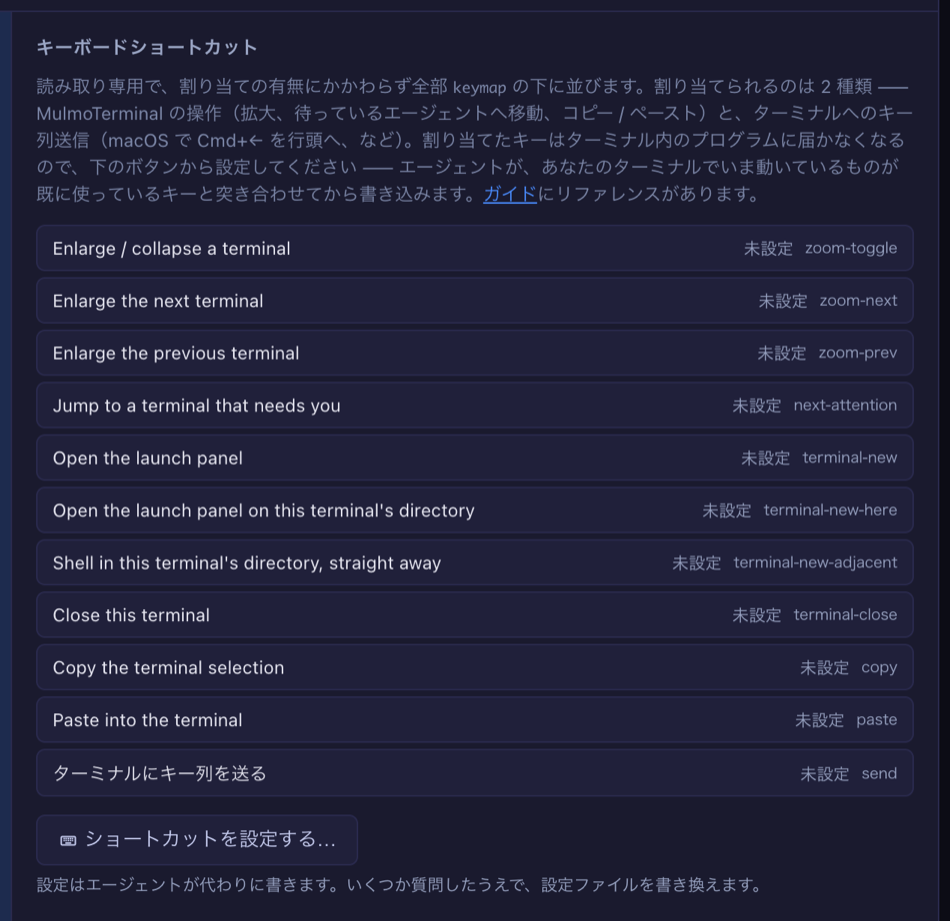
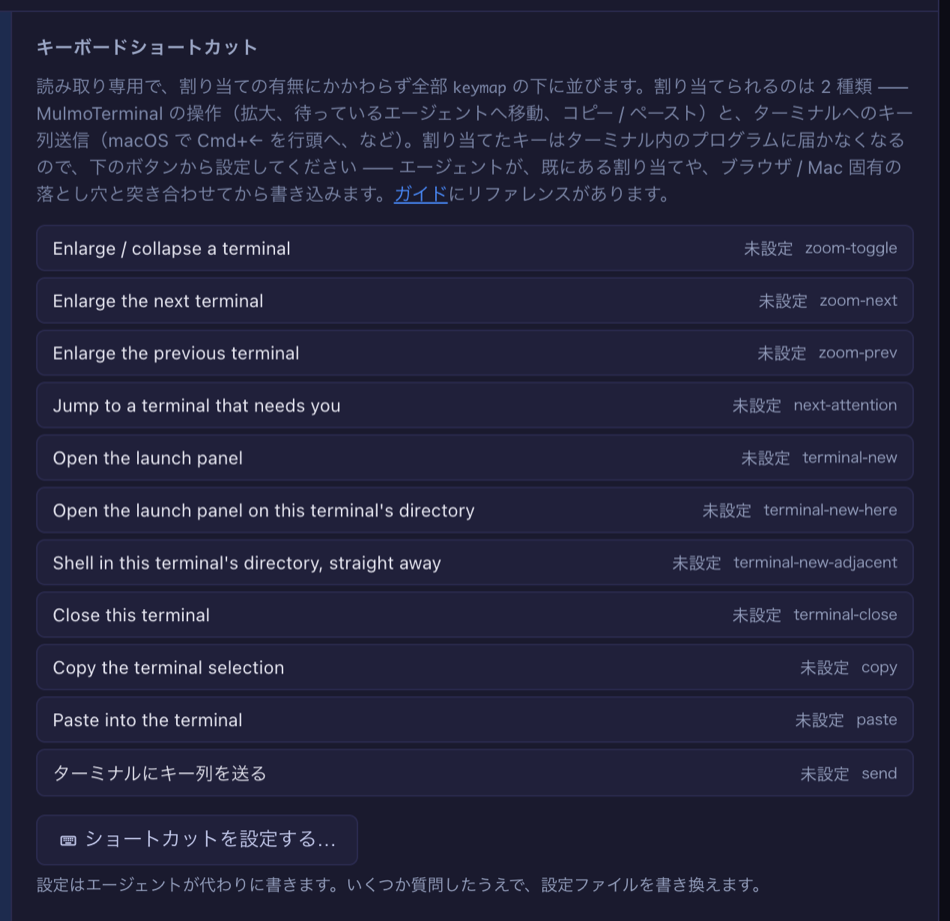
docs: stop claiming the agent can see what your terminal is running
Local codex (P3), and it is an overstatement I wrote. The intro said the
agent "checks a binding against what is already running in your
terminal". Nothing here can do that: actionForKey and sendBytesFor know
only the configured keymap, and no code inspects what vim or claude
binds. What the skill actually checks is the existing keymap and the
browser/macOS traps — so that is what the copy now says, in en, ja and
the README.

The fourth site was the screenshots, which bake the sentence in. Both
recaptured. The hazard recorded one round earlier — change the copy and
the images need retaking, and no test can tell — happened in the very
next round.

Also: the skill body still described the section as "every action and
its current binding" while its own frontmatter had been corrected to
include the send row.

Changed region(s): [[0.0305, 0.152, 0.9463, 0.2432]]

diff --git a/src/i18n/ja.ts b/src/i18n/ja.ts
@@ -76,7 +76,7 @@ export const ja: Messages = {
 
     shortcuts: {
       intro:
-        "読み取り専用で、割り当ての有無にかかわらず全部 {keymapKey} の下に並びます。割り当てられるのは 2 種類 —— MulmoTerminal の操作（拡大、待っているエージェントへ移動、コピー / ペースト）と、ターミナルへのキー列送信（macOS で Cmd+← を行頭へ、など）。割り当てたキーはターミナル内のプログラムに届かなくなるので、下のボタンから設定してください —— エージェントが、あなたのターミナルでいま動いているものが既に使っているキーと突き合わせてから書き込みます。{guide}にリファレンスがあります。",
+        "読み取り専用で、割り当ての有無にかかわらず全部 {keymapKey} の下に並びます。割り当てられるのは 2 種類 —— MulmoTerminal の操作（拡大、待っているエージェントへ移動、コピー / ペースト）と、ターミナルへのキー列送信（macOS で Cmd+← を行頭へ、など）。割り当てたキーはターミナル内のプログラムに届かなくなるので、下のボタンから設定してください —— エージェントが、既にある割り当てや、ブラウザ / Mac 固有の落とし穴と突き合わせてから書き込みます。{guide}にリファレンスがあります。",
       guide: "ガイド",
       list: "キーボードショートカット",
       notSet: "未設定",

diff --git a/src/i18n/en.ts b/src/i18n/en.ts
@@ -79,7 +79,7 @@ export const en = {
 
     shortcuts: {
       intro:
-        "Read-only, and everything is listed whether it is bound or not, under {keymapKey}. Two kinds can be bound: MulmoTerminal actions (enlarge, jump to a waiting agent, copy / paste), and key sequences sent to the terminal (on a Mac, Cmd+← for start of line). Every key you bind stops reaching the program inside the terminal, so set them up with the button below — the agent checks a binding against what is already running in your terminal before writing it. The {guide} has the reference.",
+        "Read-only, and everything is listed whether it is bound or not, under {keymapKey}. Two kinds can be bound: MulmoTerminal actions (enlarge, jump to a waiting agent, copy / paste), and key sequences sent to the terminal (on a Mac, Cmd+← for start of line). Every key you bind stops reaching the program inside the terminal, so set them up with the button below — the agent checks each one against your existing bindings and the traps a browser or a Mac adds before writing it. The {guide} has the reference.",
       guide: "guide",
       list: "Keyboard shortcuts",
       notSet: "Not set",

diff --git a/plans/feat-1858-keymap-discoverability.md b/plans/feat-1858-keymap-discoverability.md
@@ -369,6 +369,26 @@ skill に明記した —— keymap の書き込みは常に**完全な** keymap
 | `-keys` | **無かった → この PR で追加** |
 | `-header` | **無い** → 別 skill なので [#1896](https://github.com/receptron/mulmoterminal/issues/1896) に分離 |
 
+### 私が書いた誇張（ローカル codex、P3）—— そして記録した危険が即座に効いた
+
+intro はこう約束していた:
+
+> the agent checks a binding against **what is already running in your terminal** before writing it
+
+**エージェントにそれを調べる手段は無い。** 照合できるのは既存の keymap（`actionForKey` /
+`sendBytesFor` が知っているのは設定された claim だけ）と、プラットフォーム / ブラウザ固有の罠まで。
+vim や claude が何を bind しているかは見えない。
+
+「既にある割り当てと、ブラウザ / Mac 固有の落とし穴と突き合わせる」に直した。en / ja / README の
+3 箇所。
+
+**そして 4 箇所目がスクリーンショットだった。** 2 枚とも同じ文言を焼き込んでいたので撮り直し。
+**1 巡前に「文言を変えたら撮り直しが要る」と書いた危険が、次の巡でそのまま発生した。** 記録して
+おいて良かったし、テストで防げないことの証明にもなっている。
+
+同じ巡で、skill 本文が設定画面を「every action and its current binding」と説明したままだった
+（frontmatter は `send` 行も含むと直してあったのに）。同一ファイル内の不整合。
+
 ### ゲート
 
 `format` / `lint` / `typecheck` / `build` / `test` すべて exit 0。

diff --git a/README.md b/README.md
@@ -1401,8 +1401,8 @@ Favorited collections get their own toolbar buttons.
   zoomed, keys you bind walk the enlargement along the on-screen order without reaching for
   the mouse — **opt-in, nothing is bound by default**, since any bound key is taken from the
   terminal underneath. Press **Set up shortcuts…** in Settings → **Keyboard shortcuts** and an
-  agent writes the `keymap` for you, checking each binding against what is already running in your
-  terminal; that section also lists every action and the `send` row whether bound or not, including the
+  agent writes the `keymap` for you, checking each binding against your existing ones and the traps
+  a browser or a Mac adds; that section also lists every action and the `send` row whether bound or not, including the
   [keys sent straight to the terminal](https://receptron.github.io/mulmoterminal/guide/en/config.html#keymap-send).
   To write it by hand, add a `keymap` to `~/.mulmoterminal/config.json` — see the
   [guide](https://receptron.github.io/mulmoterminal/guide/en/config.html#keymap)

diff --git a/server/skills/mulmoterminal-keys/SKILL.md b/server/skills/mulmoterminal-keys/SKILL.md
@@ -25,7 +25,8 @@ merge in memory, post the whole thing. Every `keymap` example below shows one se
 readability — none of them is a body to post as-is unless the user genuinely has nothing else bound.
 
 Settings has a **Keyboard shortcuts** section, but it is **read-only** — it lists every action and
-its current binding. Point the user at it after writing, as the check.
+its current binding, plus a `send` row: one per configured entry, or a single "Not set" placeholder
+when there are none. Point the user at it after writing, as the check.
 
 ## Open with a proposal, not a question
 
